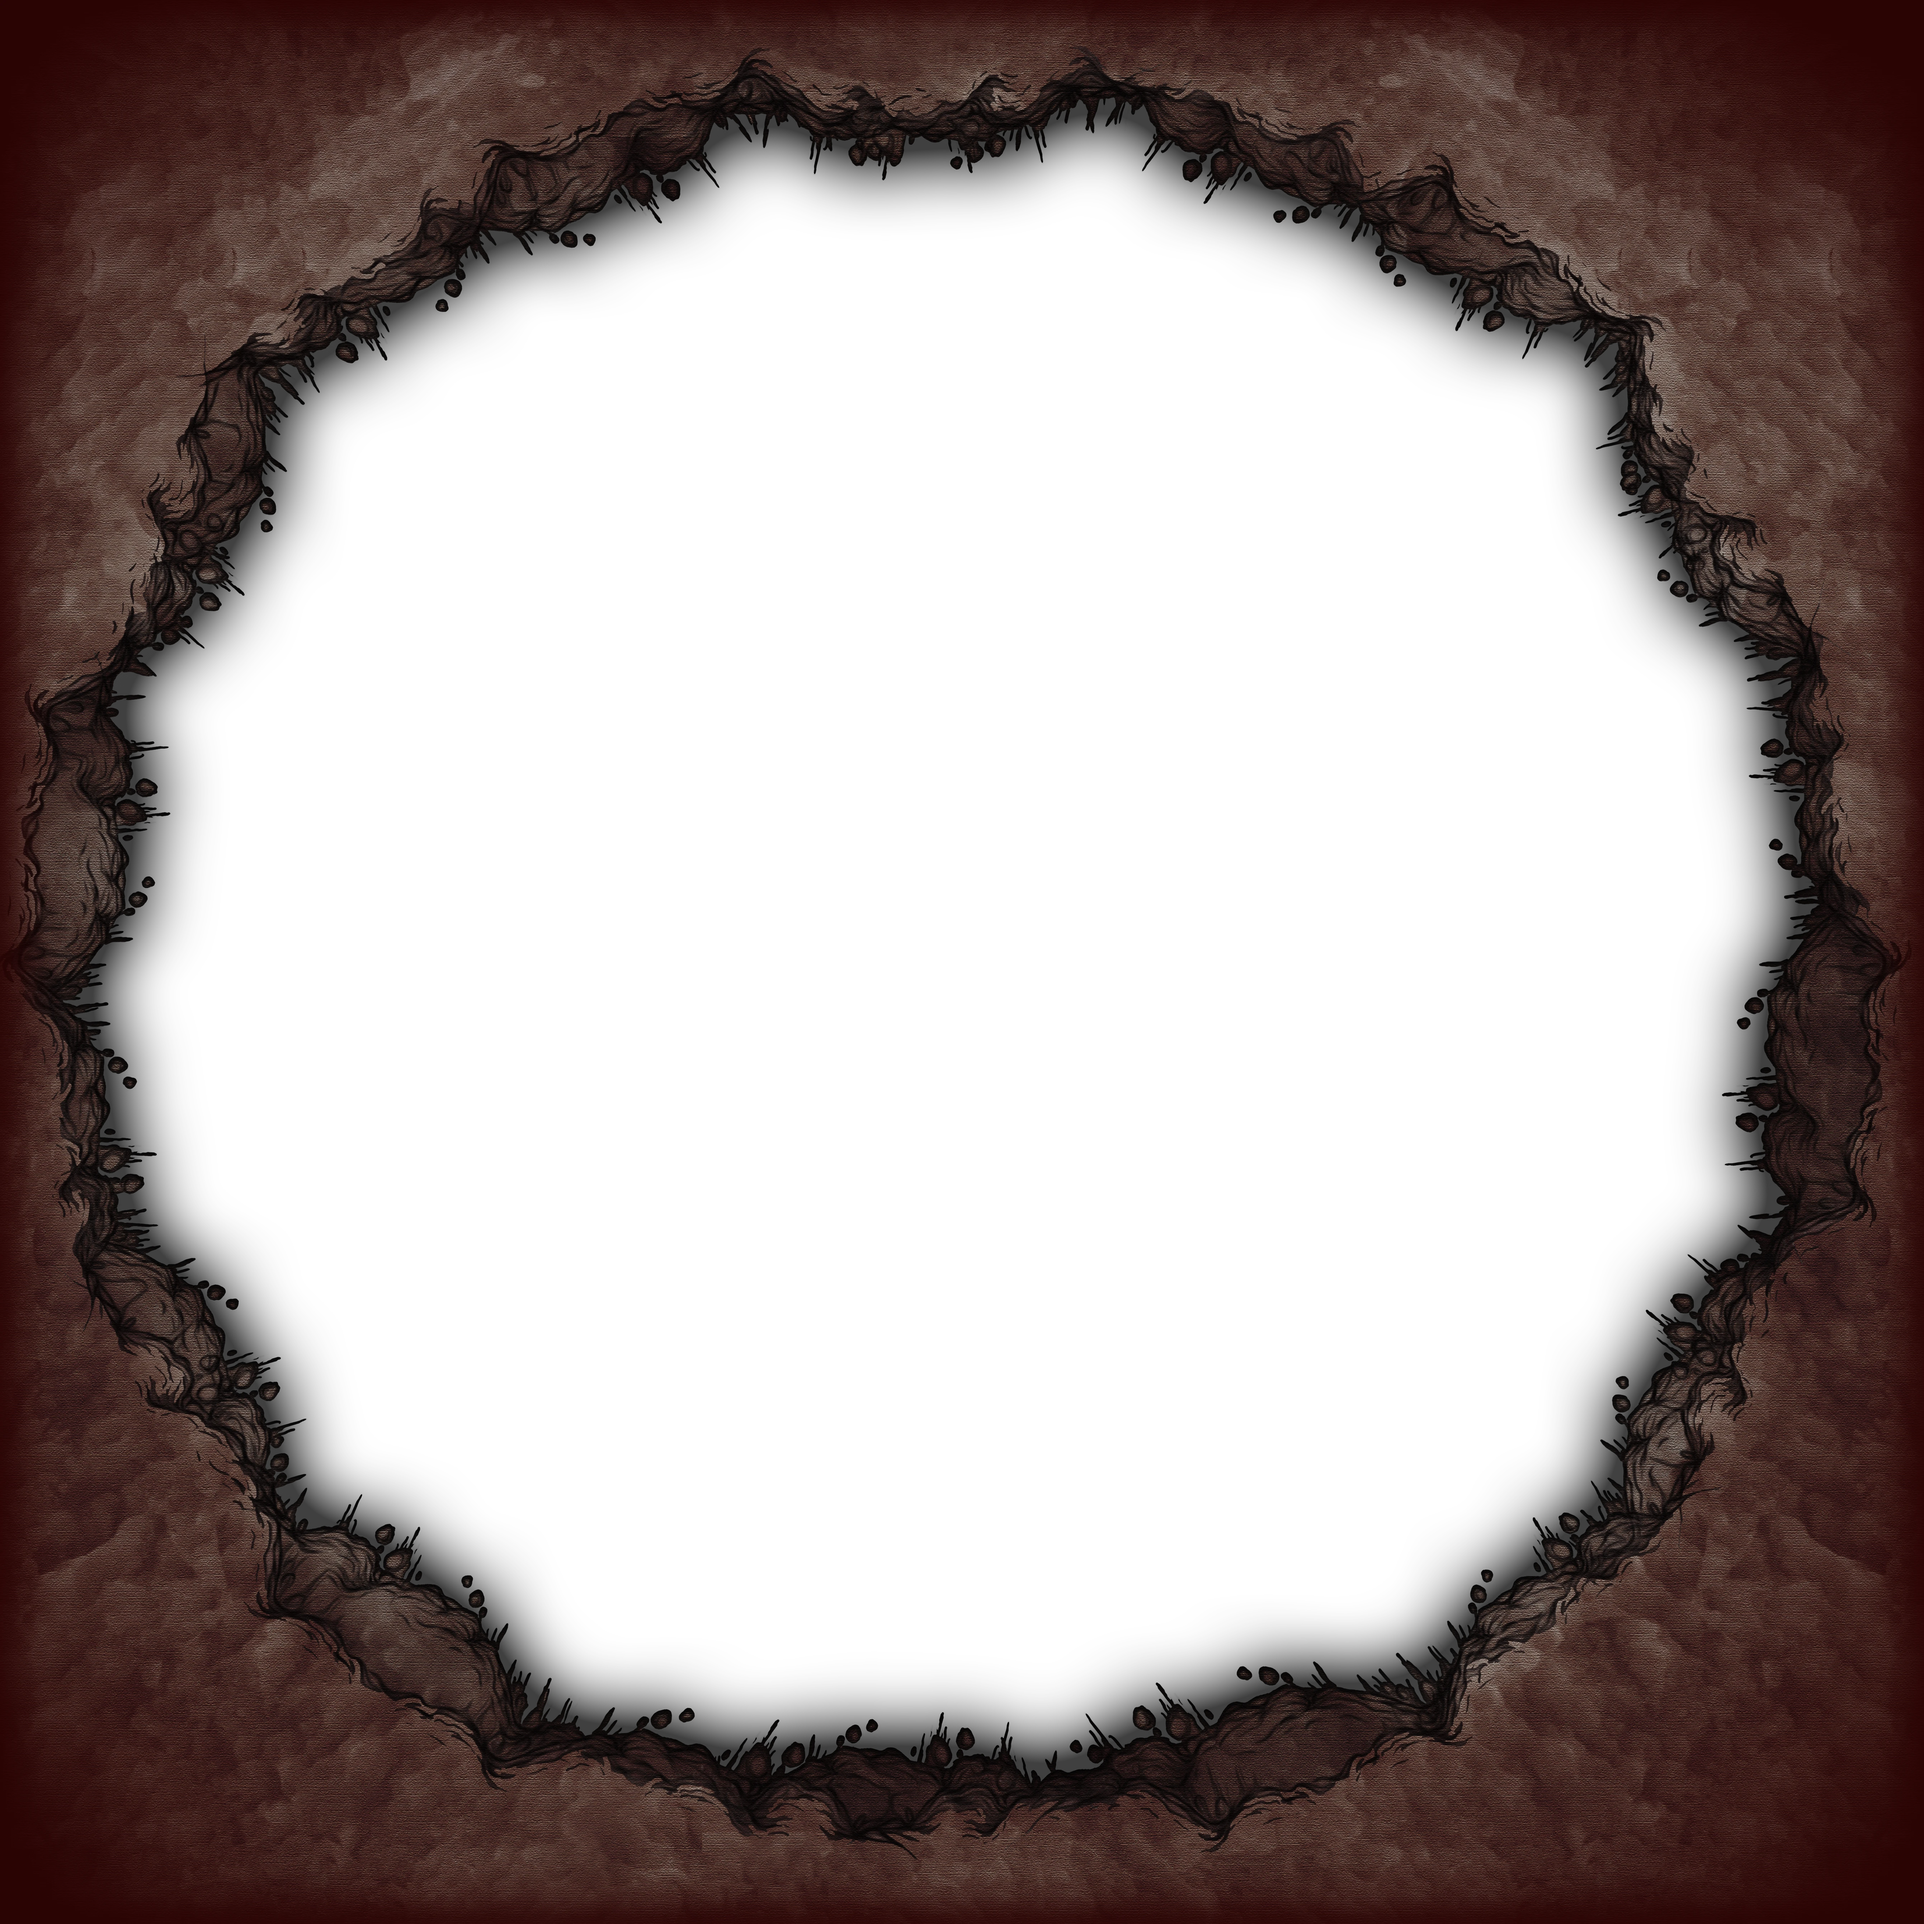
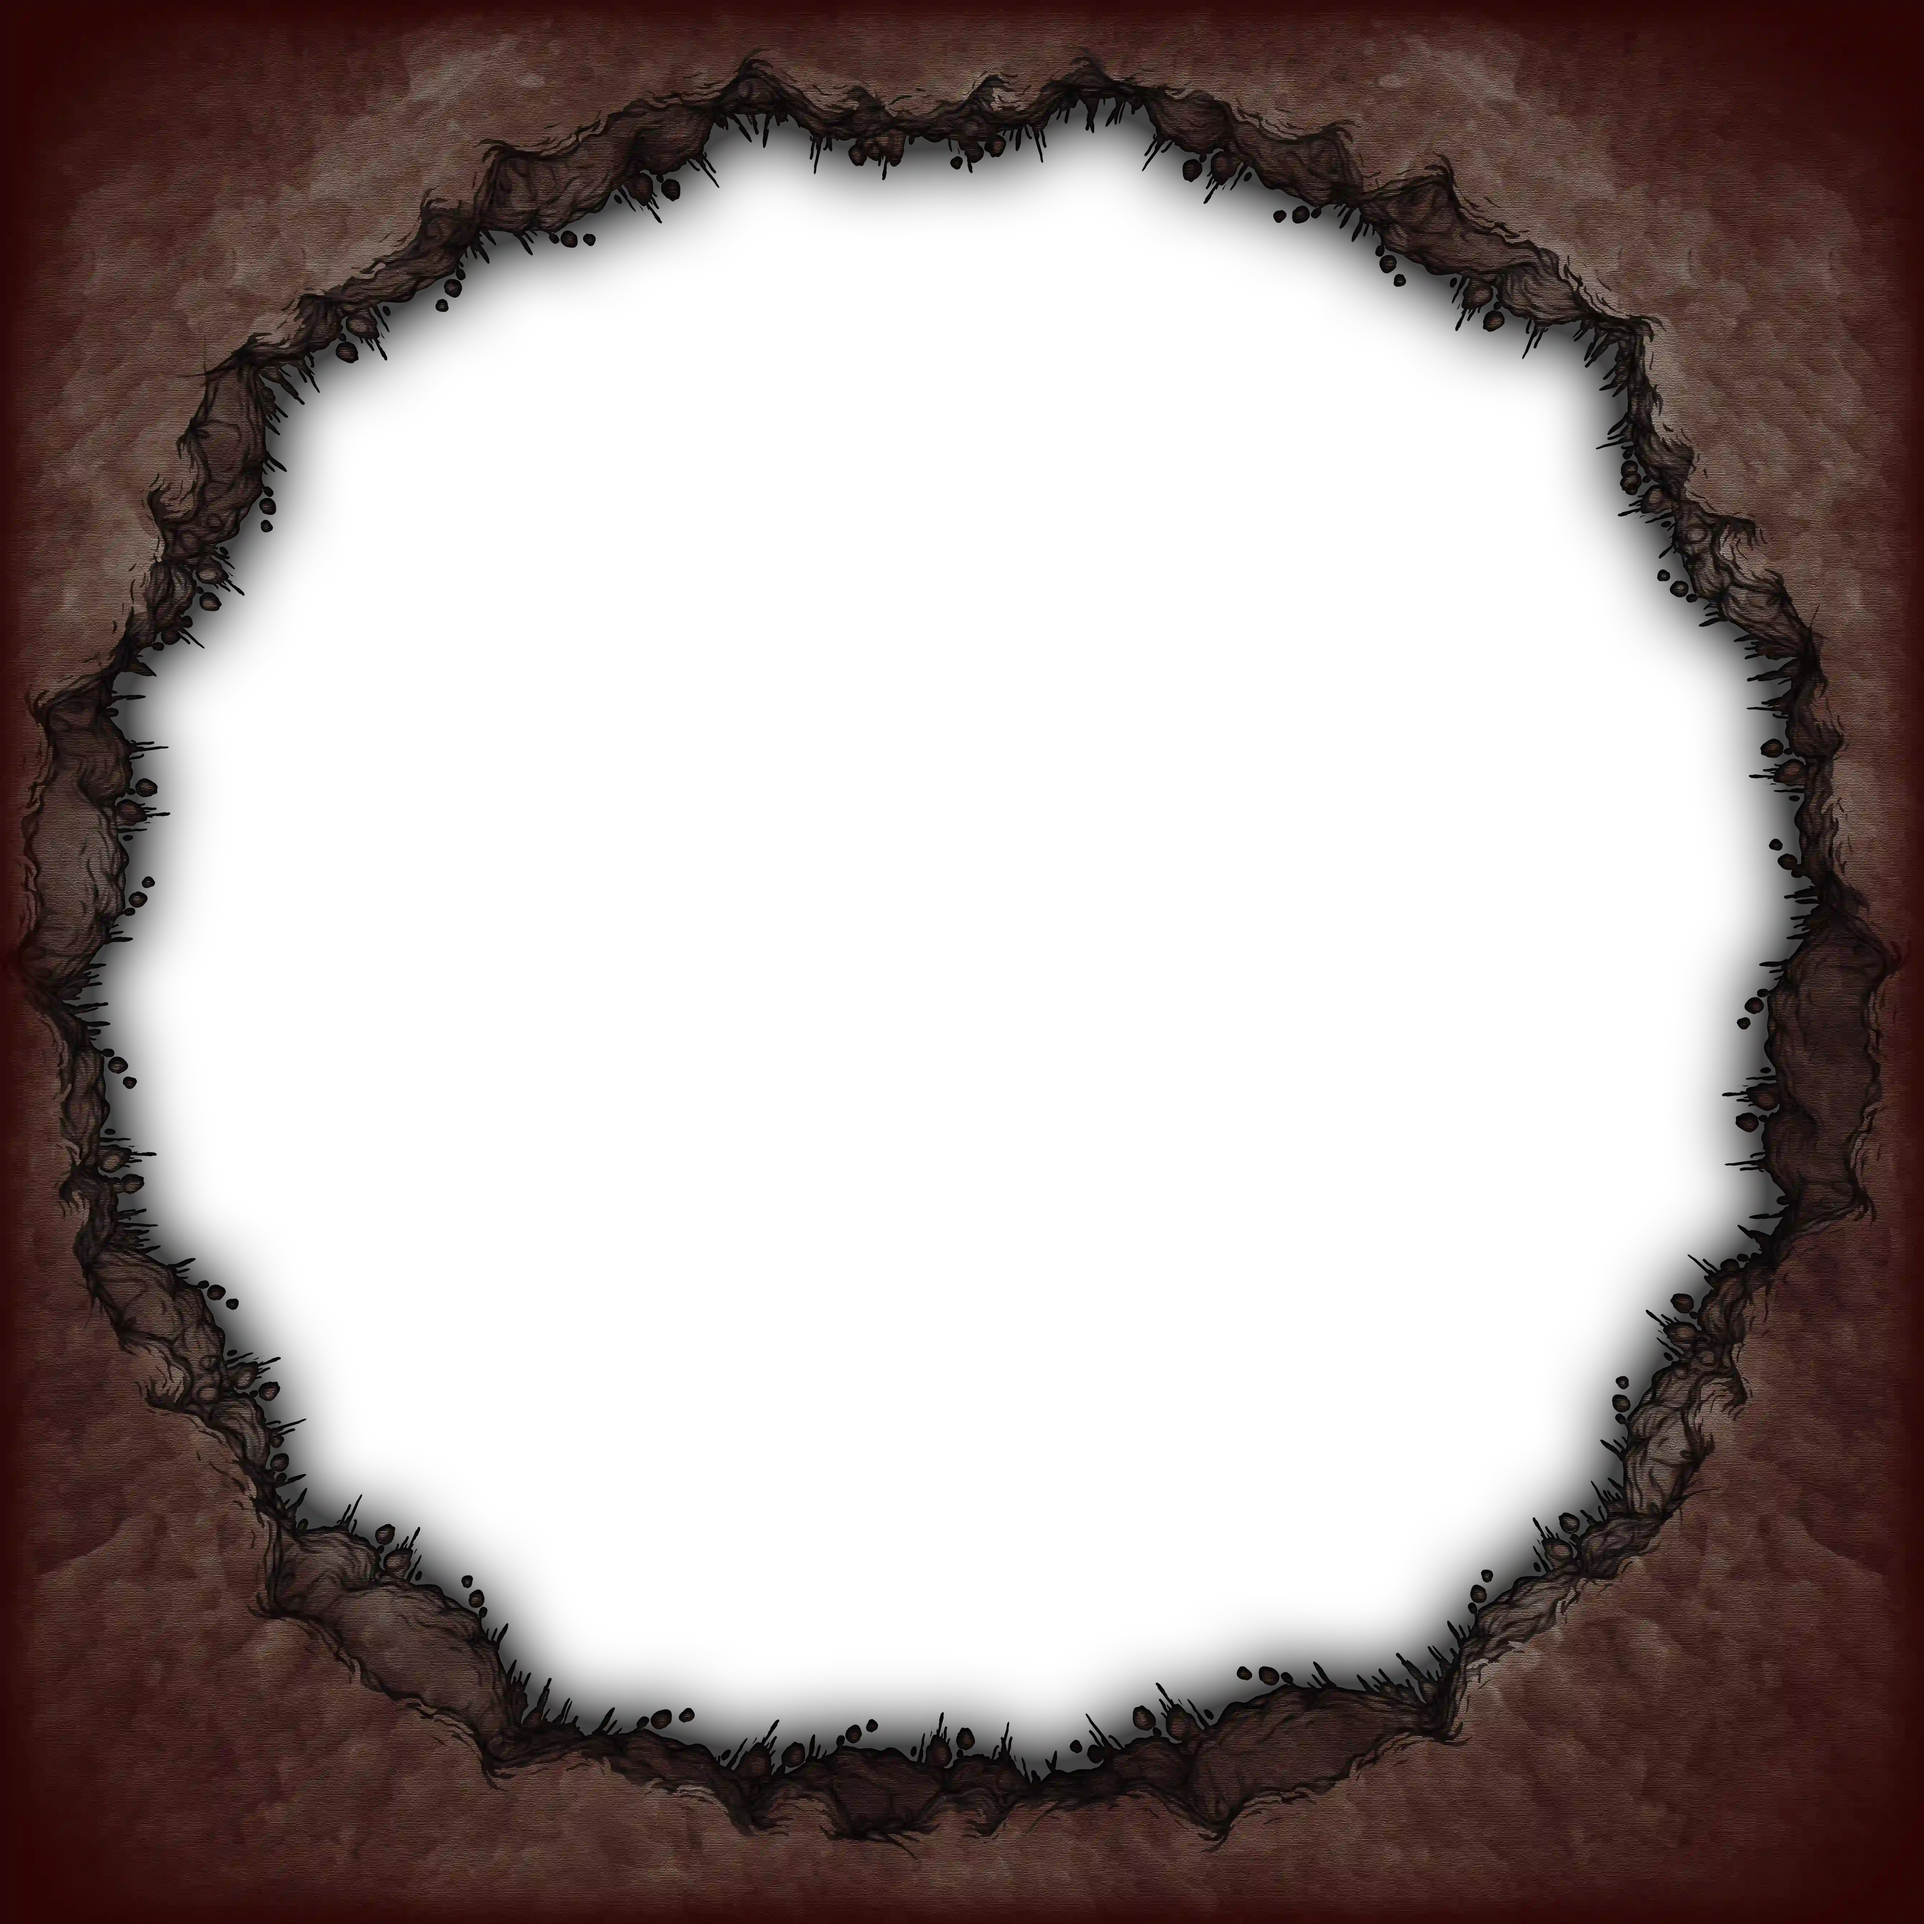
betterpics

diff --git a/css/_keyhole.css b/css/_keyhole.css
@@ -52,15 +52,8 @@ body.entrance-active > :not(#static-loader) {
 
 
 /* Layer 1 (bottom): Animated map background - zoomed in, panning */
-/* Uses image-set() for WebP with fallback to JPG for older browsers */
 .entrance-map-layer {
-    /* Fallback for browsers that don't support image-set() */
-    background-image: url("../assets/images/Map_Naked.jpg");
-    /* Modern browsers: prefer WebP if available */
-    background-image: image-set(
-        url("../assets/images/Map_Naked.webp") type("image/webp"),
-        url("../assets/images/Map_Naked.jpg") type("image/jpeg")
-    );
+    background-image: url("../assets/images/Map_Naked.webp");
     background-size: 240%;
     background-position: 20% 30%;
     background-repeat: no-repeat;
@@ -68,15 +61,8 @@ body.entrance-active > :not(#static-loader) {
 }
 
 /* Layer 3: Creusalité frame - stretched to viewport */
-/* Uses image-set() for WebP with fallback to PNG for older browsers */
 .entrance-creusalite-layer {
-    /* Fallback for browsers that don't support image-set() */
-    background-image: url("../assets/images/Creusalité_NoBorders.png");
-    /* Modern browsers: prefer WebP if available */
-    background-image: image-set(
-        url("../assets/images/Creusalité_NoBorders.webp") type("image/webp"),
-        url("../assets/images/Creusalité_NoBorders.png") type("image/png")
-    );
+    background-image: url("../assets/images/Creusalité_NoBorders.webp");
     background-size: 100% 100%;
     background-position: center;
     background-repeat: no-repeat;

diff --git a/tools/optimize_entrance_images.js b/tools/optimize_entrance_images.js
@@ -38,8 +38,8 @@ const MEDIUM_WIDTH  = 1200;   // Good for most 1080p screens
 const LQIP_WIDTH    = 32;     // Tiny placeholder (< 1 KB)
 
 const ENTRANCE_IMAGES = [
-    { src: 'Map_Naked.jpg',               baseName: 'Map_Naked',               quality: 85 },
-    { src: 'Creusalité_NoBorders.png',     baseName: 'Creusalité_NoBorders',    quality: 90 },
+    { src: 'Map_Naked.webp',               baseName: 'Map_Naked',               quality: 85 },
+    { src: 'Creusalité_NoBorders.webp',    baseName: 'Creusalité_NoBorders',    quality: 90 },
 ];
 
 /** Pretty-print file size. */
